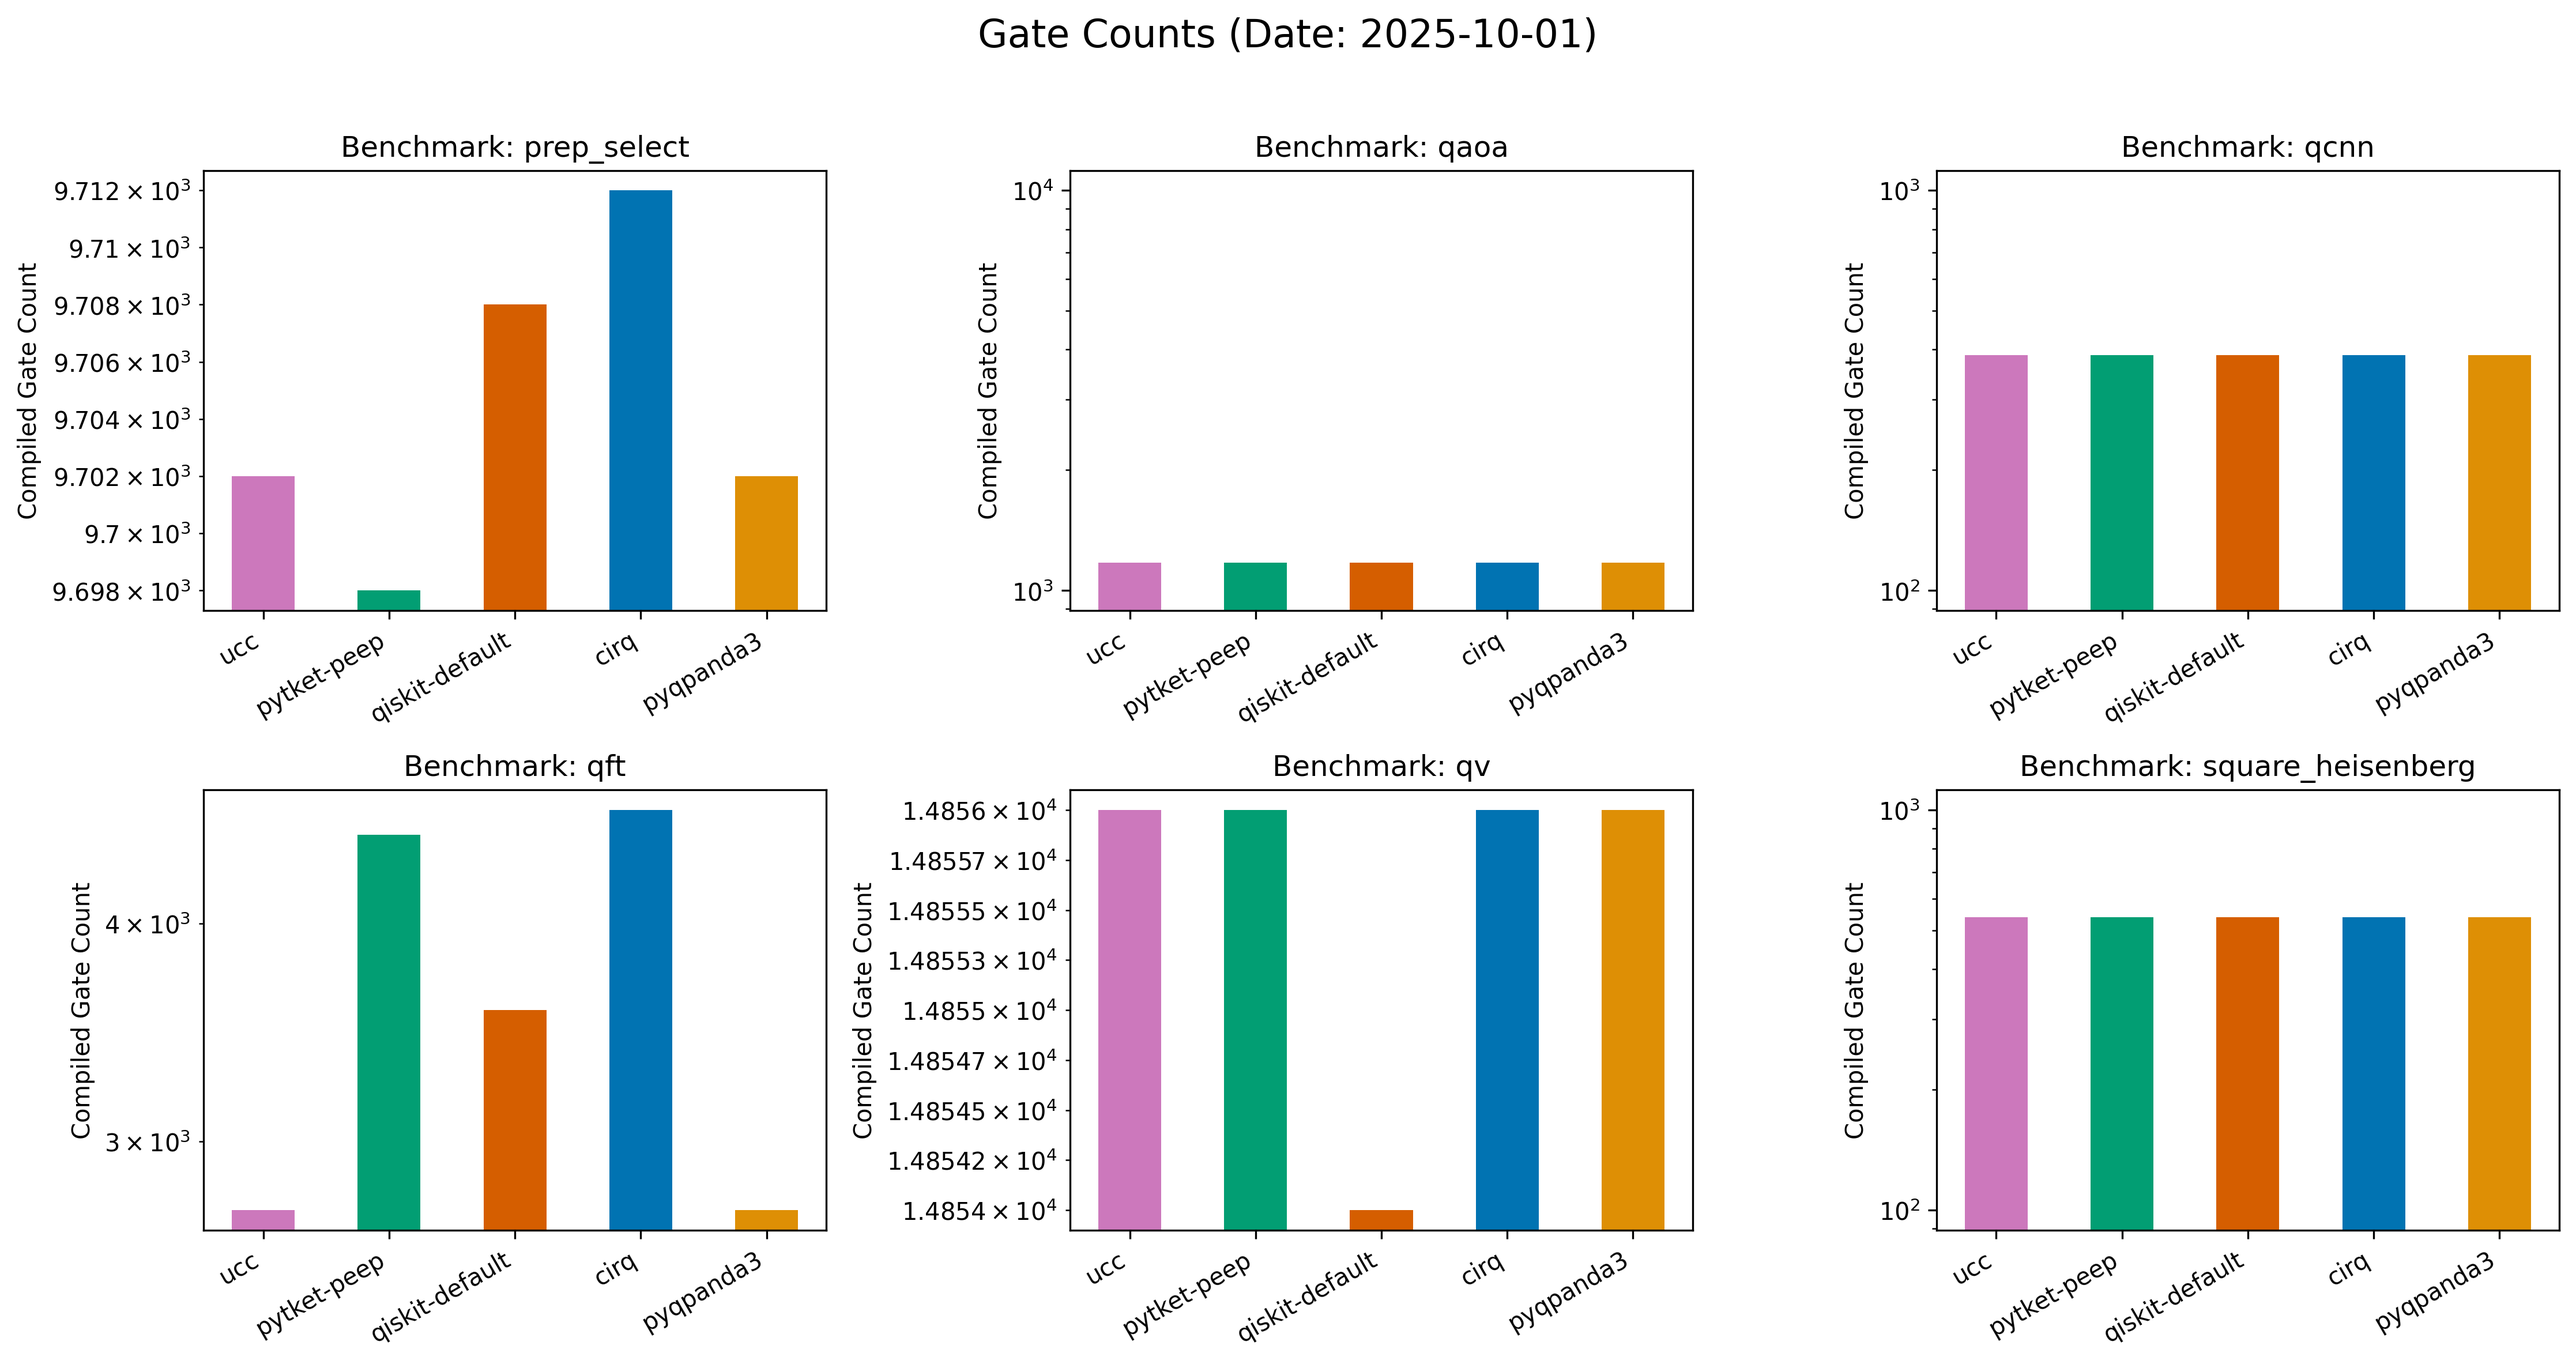
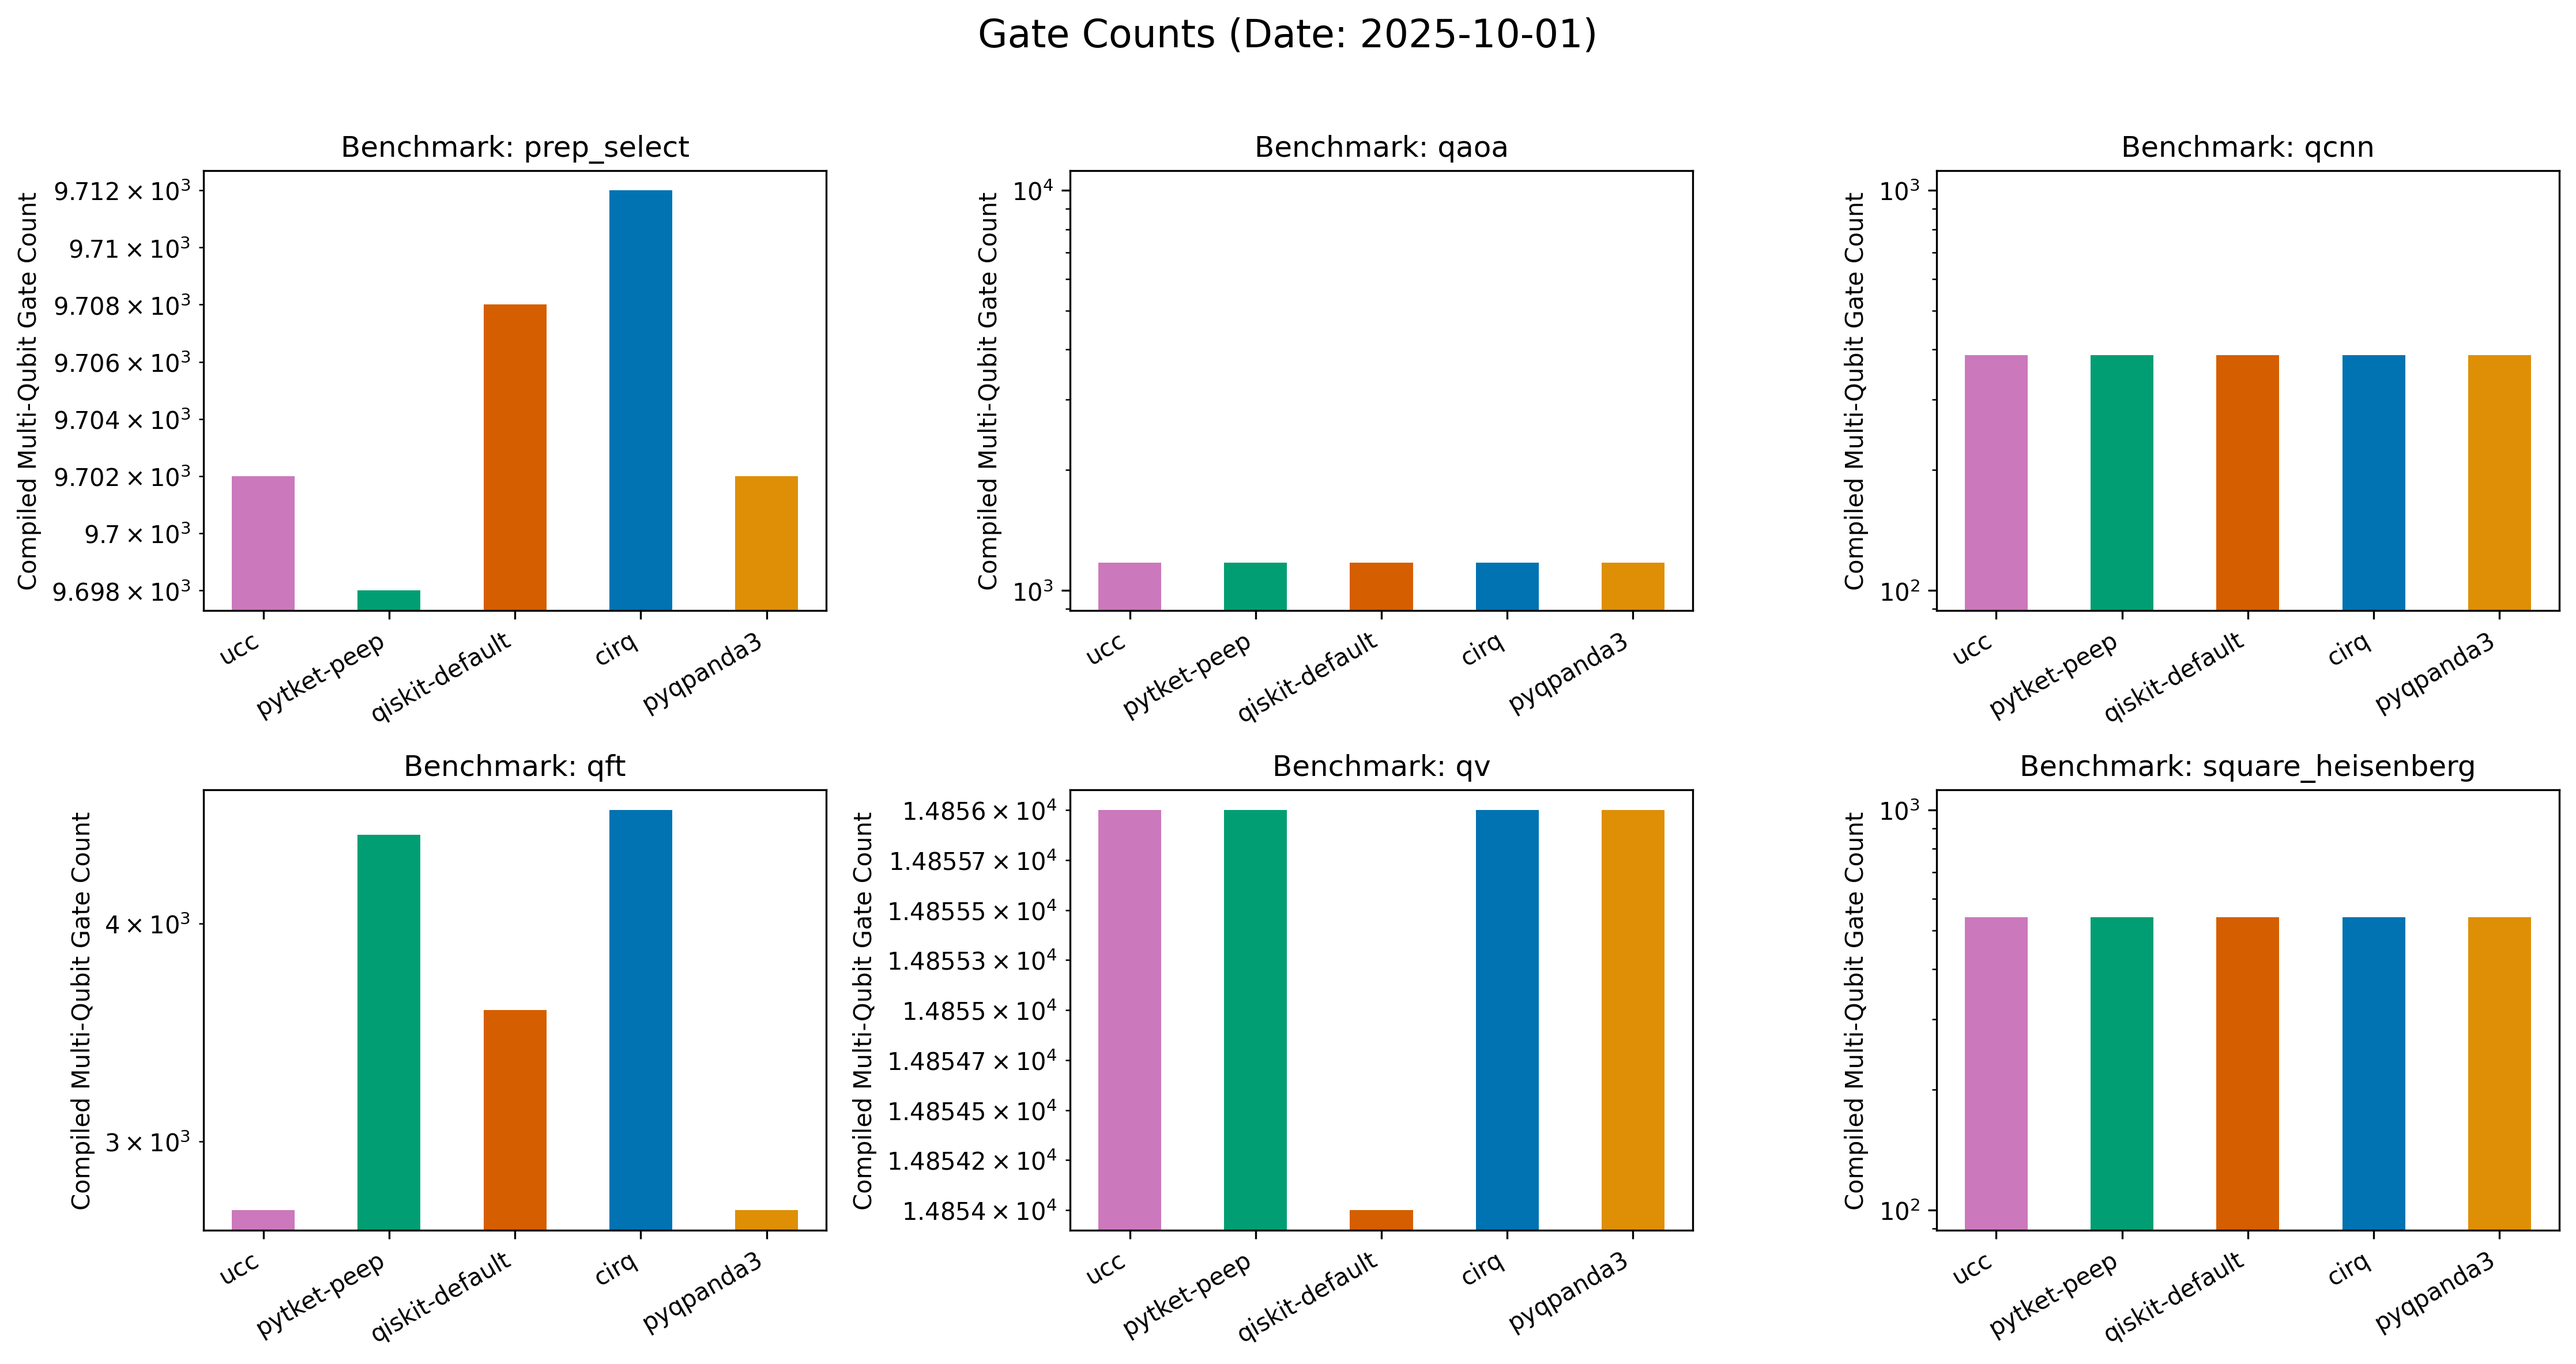
Fix: raise errors for excess benchmarks, discard generate_compilation_subplots and generate_simulation_subplots, and use sub

diff --git a/plotting/plot_latest_benchmark.py b/plotting/plot_latest_benchmark.py
@@ -35,6 +35,13 @@ def generate_subplots(
     ncols = 3
     nrows = 2
 
+    # Ensure we don't have more benchmarks than subplots
+    if n_benchmarks > nrows * ncols:
+        raise ValueError(
+            f"Too many benchmarks ({n_benchmarks}) for fixed {nrows}x{ncols} grid. "
+            f"Maximum supported: {nrows * ncols}"
+        )
+
     # Create separate figures for each metric
     for config in plot_configs:
         fig, axes = plt.subplots(
@@ -49,13 +56,8 @@ def generate_subplots(
                 sub = df[df["benchmark_id"] == benchmark]
 
                 # Extract values for each compiler
-                values = []
-                compiler_names = []
-                for compiler in compilers:
-                    row = sub[sub["compiler"] == compiler]
-                    if not row.empty:
-                        values.append(row[config["y_col"]].values[0])
-                        compiler_names.append(compiler)
+                values = sub[config["y_col"]].values
+                compiler_names = sub["compiler"].values
 
                 # Create bars
                 x_positions = np.arange(len(compiler_names))
@@ -76,6 +78,7 @@ def generate_subplots(
                 # Use log scale only if specified in config (default to True for backwards compatibility)
                 if config.get("use_log_scale", True):
                     ax.set_yscale("log")
+
             else:
                 ax.set_visible(False)
 
@@ -90,17 +93,6 @@ def generate_subplots(
         print(f"Saving plot to {metric_out_path}")
         fig.savefig(metric_out_path, dpi=300, bbox_inches="tight")
         plt.close(fig)
-
-
-def generate_compilation_subplots(
-    df: pd.DataFrame,
-    plot_configs: list[dict],
-    latest_date: str,
-    out_path: Path,
-    use_pdf: bool = False,
-):
-    """Generate subplots for compilation benchmarks with separate subplot per benchmark."""
-    generate_subplots(df, plot_configs, latest_date, out_path, use_pdf)
 
 
 def plot_compilation(
@@ -122,7 +114,7 @@ def plot_compilation(
         {
             "y_col": "compiled_multiq_gates",
             "title": "Gate Counts",
-            "ylabel": "Compiled Gate Count",
+            "ylabel": "Compiled Multi-Qubit Gate Count",
             "use_log_scale": True,
         },
         {
@@ -132,18 +124,7 @@ def plot_compilation(
             "use_log_scale": False,
         },
     ]
-    generate_compilation_subplots(df_comp, plot_configs, latest_date, out_path, use_pdf)
-
-
-def generate_simulation_subplots(
-    df: pd.DataFrame,
-    plot_configs: list[dict],
-    latest_date: str,
-    out_path: Path,
-    use_pdf: bool = False,
-):
-    """Generate subplots for simulation benchmarks with separate subplot per benchmark."""
-    generate_subplots(df, plot_configs, latest_date, out_path, use_pdf)
+    generate_subplots(df_comp, plot_configs, latest_date, out_path, use_pdf)
 
 
 def plot_simulation(
@@ -170,7 +151,7 @@ def plot_simulation(
             "ylabel": "Absolute Relative Error",
         },
     ]
-    generate_simulation_subplots(df_sim, plot_configs, latest_date, out_path, use_pdf)
+    generate_subplots(df_sim, plot_configs, latest_date, out_path, use_pdf)
 
 
 def main():
